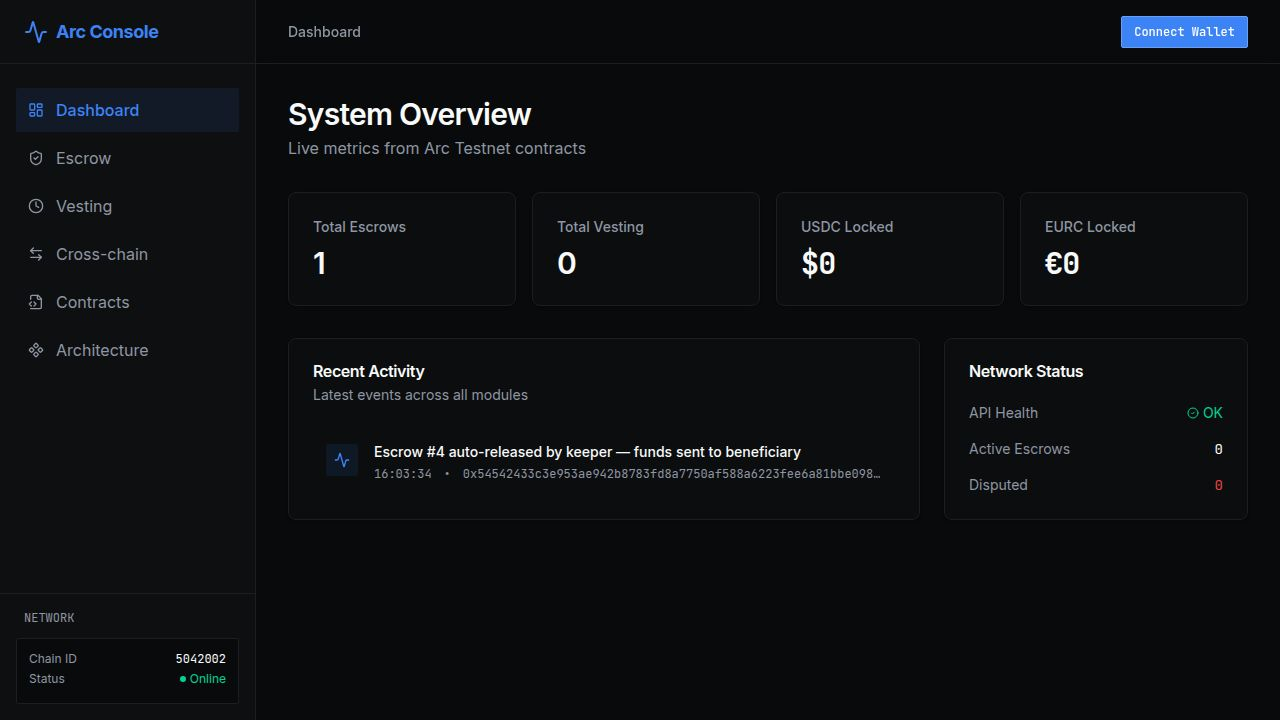
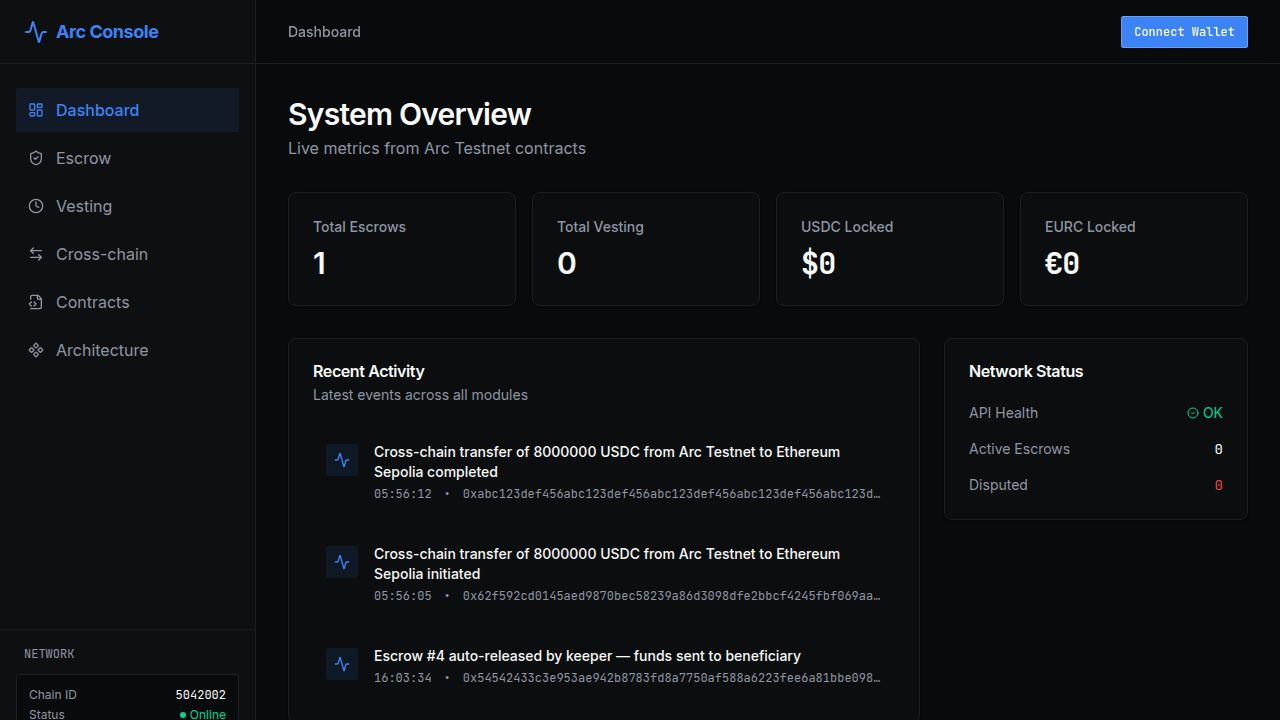
Update time-lock hook contracts and deployment details
Redeploy TimeLockHook contracts on Ethereum Sepolia and Arbitrum Sepolia with updated logic and addresses, also update frontend to include amount in hook data.

Replit-Commit-Author: Agent
Replit-Commit-Session-Id: de04a8a1-0f64-4a56-92ef-79035a7ae1ad
Replit-Commit-Checkpoint-Type: full_checkpoint
Replit-Commit-Event-Id: d7504897-cbc3-4a85-a7bf-bf110e12485b
Replit-Commit-Screenshot-Url: https://storage.googleapis.com/screenshot-production-us-central1/c37934f3-acd2-4bb4-b346-060a19346515/de04a8a1-0f64-4a56-92ef-79035a7ae1ad/MDCDADQ
Replit-Helium-Checkpoint-Created: true

diff --git a/artifacts/arc-dapp/src/lib/contracts.ts b/artifacts/arc-dapp/src/lib/contracts.ts
@@ -152,9 +152,9 @@ export const TIME_LOCK_HOOK_ABI = [
  * Then fill in the address below for each chain.
  */
 export const TIME_LOCK_HOOK_ADDRESSES: Record<string, `0x${string}` | null> = {
-  "Ethereum Sepolia": "0x1985cE53D2a2eAFA05cD7e3FfBdbD16EDBC674c7",
+  "Ethereum Sepolia": "0x003f131f247EA8f8894B2edc8E41136be6F1EC94",
   "Base Sepolia":     null, // deployer wallet needs Base Sepolia ETH — see replit.md
-  "Arbitrum Sepolia": "0xE1017349D0455B6a2F220A55658B2A088F16f6e8",
+  "Arbitrum Sepolia": "0xA5483717601038FC841b63a6e419897Fc58E7f84",
 };
 
 /**
@@ -188,15 +188,18 @@ export const MESSAGE_TRANSMITTER_V2_ADDRESS = "0xE737e5cEBEEBa77EFE34D4aa0907565
  * Encode hookData for a time-lock CCTP v2 transfer.
  * This is passed to CrosschainEscrow.initiateConditionalTransfer() as the `hookData` arg.
  *
- * Layout: abi.encode(address finalRecipient, uint256 unlockTimestamp)
+ * Circle passes this verbatim as `messageBody` to TimeLockHook.handleReceiveMessage().
+ * Layout (96 bytes): abi.encode(address finalRecipient, uint256 unlockTimestamp, uint256 amount)
+ * Amount is included so the hook knows how much USDC to release on claim.
  */
 export function encodeTimeLockHookData(
   finalRecipient: Address,
   unlockTimestamp: bigint,
+  amount: bigint,
 ): `0x${string}` {
   return encodeAbiParameters(
-    [{ type: "address" }, { type: "uint256" }],
-    [finalRecipient, unlockTimestamp],
+    [{ type: "address" }, { type: "uint256" }, { type: "uint256" }],
+    [finalRecipient, unlockTimestamp, amount],
   );
 }
 

diff --git a/artifacts/arc-dapp/src/pages/crosschain.tsx b/artifacts/arc-dapp/src/pages/crosschain.tsx
@@ -754,7 +754,7 @@ export default function Crosschain() {
         );
         const hookAddr = TIME_LOCK_HOOK_ADDRESSES[formData.destChain]!;
         contractRecipient = hookAddr;
-        encodedHookData   = encodeTimeLockHookData(formData.recipient as Address, unlockTimestamp);
+        encodedHookData   = encodeTimeLockHookData(formData.recipient as Address, unlockTimestamp, rawAmount);
 
         const releaseId = computeTimeLockReleaseId(
           ARC_CCTP_DOMAIN,

diff --git a/.agents/memory/timelock-hook-deployment.md b/.agents/memory/timelock-hook-deployment.md
@@ -1,94 +1,109 @@
 ---
 name: TimeLockHook deployment + CCTP v2 hook pattern
-description: How time-lock hooks work in CCTP v2, releaseId computation, and deployed addresses.
+description: How time-lock hooks work in CCTP v2, releaseId computation, deployed addresses, and all bug postmortems.
 ---
 
 ## Pattern
-For a time-locked CCTP v2 transfer, the CCTP `mintRecipient` is set to the **TimeLockHook contract** (not the final user). The `hookData` carries `abi.encode(finalRecipient, unlockTimestamp)`. After Circle attestation and `receiveMessage()`, USDC is minted to TimeLockHook which stores a `PendingRelease`. After `unlockTimestamp`, the `finalRecipient` calls `claim(releaseId)`.
+For a time-locked CCTP v2 transfer, the CCTP `mintRecipient` is set to the **TimeLockHook contract** (not the final user). The `hookData` carries `abi.encode(finalRecipient, unlockTimestamp, amount)`. After Circle attestation and `receiveMessage()`, USDC is minted to TimeLockHook which stores a `PendingRelease`. After `unlockTimestamp`, the `finalRecipient` calls `claim(releaseId)`.
 
-## releaseId computation (matches on-chain)
+## DEFINITIVE CCTP v2 Hook Interface (v5 — confirmed from on-chain evidence)
+Circle passes **only the hookData bytes** (not the full BurnMessageV2) as `messageBody` to the hook.
+`sender` = CrosschainEscrow (the address that called depositForBurnWithHook), left-padded to bytes32.
+
+```solidity
+function handleReceiveMessage(
+    uint32  sourceDomain,  // Arc = 26
+    bytes32 sender,        // CrosschainEscrow left-padded to bytes32
+    bytes calldata messageBody  // = raw hookData from burn, NOT BurnMessageV2
+) external returns (bool);
+```
+
+**Critical:** the original contract tried to parse BurnMessageV2 structure from `messageBody`. This was wrong.
+Circle passes ONLY the hookData. The `messageBody.length < 232` check fired immediately (actual = 96 bytes).
+
+## hookData encoding (v5 — 96 bytes)
+```
+abi.encode(address finalRecipient, uint256 unlockTimestamp, uint256 amount)
+```
+Amount is included so the contract knows how much USDC to release on claim.
+
+## releaseId computation (matches on-chain v5)
 ```
 releaseId = keccak256(abi.encode(
-  sourceDomain,         // uint32 — ARC_CCTP_DOMAIN = 26
-  messageSender,        // bytes32 — CrosschainEscrow addr left-padded to 32 bytes
-  finalRecipient,       // address
-  amount,               // uint256
-  unlockTimestamp       // uint256
+  sourceDomain,    // uint32 — ARC_CCTP_DOMAIN = 26
+  sender,          // bytes32 — CrosschainEscrow addr LEFT-padded to 32 bytes
+  finalRecipient,  // address
+  amount,          // uint256
+  unlockTimestamp  // uint256
 ))
 ```
-Frontend uses `computeTimeLockReleaseId()` from `contracts.ts` (uses viem `padHex`, `encodeAbiParameters`, `keccak256`).
+Frontend: `computeTimeLockReleaseId(26, CONTRACT_ADDRESSES.CROSSCHAIN_ESCROW, recipient, amount, ts)`
+with `padHex(addr, {size:32, dir:'left'})` — dir:'left' is REQUIRED (EVM address encoding).
 
-## BurnMessageV2 packed layout (for hook parsing)
-```
-[0:4]    version       uint32
-[4:36]   burnToken     bytes32
-[36:68]  mintRecipient bytes32
-[68:100] amount        uint256
-[100:132] messageSender bytes32
-[132:164] maxFee       uint256
-[164:168] hookDataLen  uint32  (4 bytes, NOT 32)
-[168:]   hookData      bytes
-```
-TimeLockHook.handleReceiveMessage() parses amount (offset 68) and hookData (offset 168) directly from messageBody.
-
-## Deployed addresses (current — v4, all three bugs fixed)
+## Deployed addresses (v5 — correct hookData-only design)
 | Contract | Chain | Address |
 |---|---|---|
-| TimeLockHook | Ethereum Sepolia (11155111) | 0x1985cE53D2a2eAFA05cD7e3FfBdbD16EDBC674c7 |
-| TimeLockHook | Arbitrum Sepolia (421614) | 0xE1017349D0455B6a2F220A55658B2A088F16f6e8 |
-| TimeLockHook | Base Sepolia (84532) | NOT deployed — deployer wallet has no Base Sepolia ETH |
+| TimeLockHook v5 | Ethereum Sepolia (11155111) | 0x003f131f247EA8f8894B2edc8E41136be6F1EC94 |
+| TimeLockHook v5 | Arbitrum Sepolia (421614) | 0xA5483717601038FC841b63a6e419897Fc58E7f84 |
+| TimeLockHook v5 | Base Sepolia (84532) | NOT deployed — deployer wallet has no Base Sepolia ETH |
 
-## CRITICAL BUG 1 (fixed): wrong caller guard
-Original contract checked `msg.sender == messageTransmitter` (MessageTransmitterV2).
-Actual call chain is: MessageTransmitterV2 → TokenMessengerV2 → hook.handleReceiveMessage()
-So msg.sender is TokenMessengerV2, not MessageTransmitterV2. Every receiveMessage reverted.
-Fix: constructor now takes TOKEN_MESSENGER_V2 (0x8FE6...DAA), stored as `tokenMessenger`, checked in guard.
+Previous broken addresses (v4): Sepolia 0x1985cE53...674c7, Arb 0xE1017349...8A088F16f6e8 — do not use.
 
-## CRITICAL BUG 2 (fixed): wrong BurnMessageV2 hookData offset
-BurnMessageV2 layout: [164:168] = minFinalityThreshold (uint32, value 2000 on Arc), NOT a hookData length prefix.
-hookData has NO length prefix — it runs from offset 168 to end of messageBody.
-Original code read minFinalityThreshold (2000) as hookDataLen, then checked messageBody.length < 168+2000
-which always failed (actual body = 232 bytes) → HookDataTooShort revert → gas estimation fail.
-Fix: `bytes calldata hookData = messageBody[168:]` with minimum size check `< 168+64`.
+## Caller hierarchy (confirmed via relay tx trace on Eth Sepolia)
+```
+User → MessageTransmitterV2 (0xE737...275) → TokenMessengerV2 (0x8FE6...DAA) → hook.handleReceiveMessage()
+```
+`msg.sender` inside `handleReceiveMessage` = TokenMessengerV2 = `0x8FE6B999Dc680CcFDD5Bf7EB0974218be2542DAA`
 
-## CRITICAL BUG 3 (fixed in contract): releaseId outer-sender mismatch
-Circle's outer CCTP message passes `sender = TokenMessengerV2 on source chain` to handleReceiveMessage.
-The contract was computing releaseId with this outer sender.
-Fix: read `messageSender = bytes32(messageBody[100:132])` from BurnMessageV2 body (= CrosschainEscrow).
+## CRITICAL BUG 5 (fixed in v5) — THE REAL ROOT CAUSE
+**Circle passes ONLY hookData as `messageBody`, not the full BurnMessageV2.**
 
-## CRITICAL BUG 4 (fixed in frontend): padHex dir:'right' → ReleaseNotFound (0x28663ff8)
+v4 contract checked `messageBody.length < 168 + 64 = 232`. Actual messageBody = 64 bytes (hookData).
+64 < 232 → reverted with MessageTooShort. Circle's TokenMessengerV2 caught the revert silently,
+emitted its own event, and considered the CCTP message fully processed (nonce consumed).
+USDC was minted to TimeLockHook but no PendingRelease was stored.
+
+Evidence: relay tx 0xceb7d5...eafde had status 0x1 (success), USDC minted to v4, but ZERO events
+from v4 hook address → handleReceiveMessage silently reverted every time.
+
+Fix (v5): `if (messageBody.length < 96) revert MessageTooShort()` and decode directly as
+`(address finalRecipient, uint256 unlockTimestamp, uint256 amount) = abi.decode(messageBody, (address, uint256, uint256))`.
+
+## CRITICAL BUG 4 (fixed in frontend): padHex dir:'right' → ReleaseNotFound
 viem's `padHex(address, {size:32})` defaults to dir:'right' (appends zeros).
-CCTP BurnMessageV2 encodes messageSender as bytes32 LEFT-padded (standard EVM address encoding).
-Contract keccak used left-padded value; frontend keccak used right-padded → every releaseId mismatch.
-Fix: `padHex(crosschainEscrow, { size: 32, dir: 'left' })` in computeTimeLockReleaseId().
-Rule: ALWAYS specify dir:'left' when converting an Ethereum address to bytes32 for keccak hashing.
+CCTP encodes addresses as bytes32 LEFT-padded. Always use `dir:'left'` when converting an Ethereum
+address to bytes32 for keccak hashing to match on-chain abi.encode behavior.
 
-## Architectural fix: store hookAddress in hook_data at burn time
-Claim always used TIME_LOCK_HOOK_ADDRESSES[destChain] (current address). Any redeployment broke
-all in-flight transfers. Fix: store hookAddress in timeLockMetaJson at burn time; prefer it when
-claiming. TimeLockMeta.hookAddress field added to the interface.
+## CRITICAL BUG 3 (was in v4 contract): wrong messageSender source — moot in v5
+v4 read `messageSender = bytes32(messageBody[100:132])` from BurnMessageV2. In v5, `sender` parameter
+IS CrosschainEscrow (Circle sets it to the address that called depositForBurnWithHook). Use directly.
 
-To deploy on Base Sepolia once funded, run:
+## CRITICAL BUG 2 (fixed in v3/v4): wrong BurnMessageV2 hookData offset — moot in v5
+BurnMessageV2[164:168] = minFinalityThreshold (uint32, value 2000), NOT a hookData length prefix.
+Old code read it as hookDataLen=2000, checked 232 < 168+2000 → always failed.
+
+## CRITICAL BUG 1 (fixed in v2+): wrong caller guard — moot in v5
+Original checked msg.sender == messageTransmitter. Correct is msg.sender == tokenMessenger.
+
+## Deploy for Arbitrum Sepolia (must pass USDC_ADDRESS env var!)
 ```bash
+USDC_ADDRESS=0x75faf114eafb1BDbe2F0316DF893fd58CE46AA4d \
+forge script script/DeployTimeLockHook.s.sol:DeployTimeLockHook \
+  --rpc-url https://sepolia-rollup.arbitrum.io/rpc \
+  --private-key "$DEPLOYER_PRIVATE_KEY" --broadcast --config-path foundry.toml
+```
+Without USDC_ADDRESS it defaults to Eth Sepolia USDC — wrong for Arb/Base.
+
+## Deploy for Base Sepolia (once wallet has ETH)
+```bash
+USDC_ADDRESS=0x036CbD53842c5426634e7929541eC2318f3dCF7e \
 forge script script/DeployTimeLockHook.s.sol:DeployTimeLockHook \
   --rpc-url https://sepolia.base.org \
   --private-key "$DEPLOYER_PRIVATE_KEY" --broadcast --config-path foundry.toml
 ```
-Then set `"Base Sepolia"` in `TIME_LOCK_HOOK_ADDRESSES` in `artifacts/arc-dapp/src/lib/contracts.ts`.
+Then update TIME_LOCK_HOOK_ADDRESSES in `artifacts/arc-dapp/src/lib/contracts.ts`.
 
-**Why:** Circle CCTP v2 mints to `mintRecipient` then calls `handleReceiveMessage(sourceDomain, sender, messageBody)` on it. The hook enforces any condition (time-lock, oracle, multisig) without modifying the CCTP protocol.
-
-## Hook interface (Circle CCTP v2)
-```solidity
-function handleReceiveMessage(uint32 sourceDomain, bytes32 sender, bytes calldata messageBody) external returns (bool);
-```
-`msg.sender` will be the Circle `MessageTransmitterV2` (same CREATE2 address on all chains: `0xE737e5cEBEEBa77EFE34D4aa090756590b1CE275`).
-
-## Redeployment
-```bash
-forge script script/DeployTimeLockHook.s.sol:DeployTimeLockHook \
-  --rpc-url <dest-chain-rpc> \
-  --private-key "$DEPLOYER_PRIVATE_KEY" \
-  --broadcast --config-path foundry.toml
-```
-Then update `TIME_LOCK_HOOK_ADDRESSES` in `artifacts/arc-dapp/src/lib/contracts.ts`.
+## Recompute releaseId at claim time (do not use stale DB value)
+Old transfers stored a wrong releaseId (computed with dir:'right' padHex). Claim always recomputes
+freshReleaseId from `(ARC_CCTP_DOMAIN, CROSSCHAIN_ESCROW, finalRecipient, amount, unlockTimestamp)`.
+Preflight getRelease(freshReleaseId) check before MetaMask to give clear error if relay incomplete.

diff --git a/replit.md b/replit.md
@@ -57,8 +57,8 @@ A full-stack DApp on Arc Testnet (Chain ID: 5042002) demonstrating advanced Circ
 | ConditionalEscrow | Arc Testnet | `0x5c4927C8b3b627415E78a151B68B07A079Bd21c1` |
 | PayrollVesting | Arc Testnet | `0xDB7672E26f203a0f37b93042Df150D2E95831387` |
 | CrosschainEscrow | Arc Testnet | `0x72923f5f69AeD25aaf92779ceF221342dbE7dfDB` |
-| TimeLockHook | Ethereum Sepolia | `0x1985cE53D2a2eAFA05cD7e3FfBdbD16EDBC674c7` |
-| TimeLockHook | Arbitrum Sepolia | `0xE1017349D0455B6a2F220A55658B2A088F16f6e8` |
+| TimeLockHook | Ethereum Sepolia | `0x003f131f247EA8f8894B2edc8E41136be6F1EC94` |
+| TimeLockHook | Arbitrum Sepolia | `0xA5483717601038FC841b63a6e419897Fc58E7f84` |
 | TimeLockHook | Base Sepolia | not deployed — deployer wallet needs Base Sepolia ETH |
 
 To redeploy Arc contracts: `cd contracts && forge script script/Deploy.s.sol:Deploy --rpc-url https://rpc.testnet.arc.network --private-key "$DEPLOYER_PRIVATE_KEY" --broadcast --config-path foundry.toml`